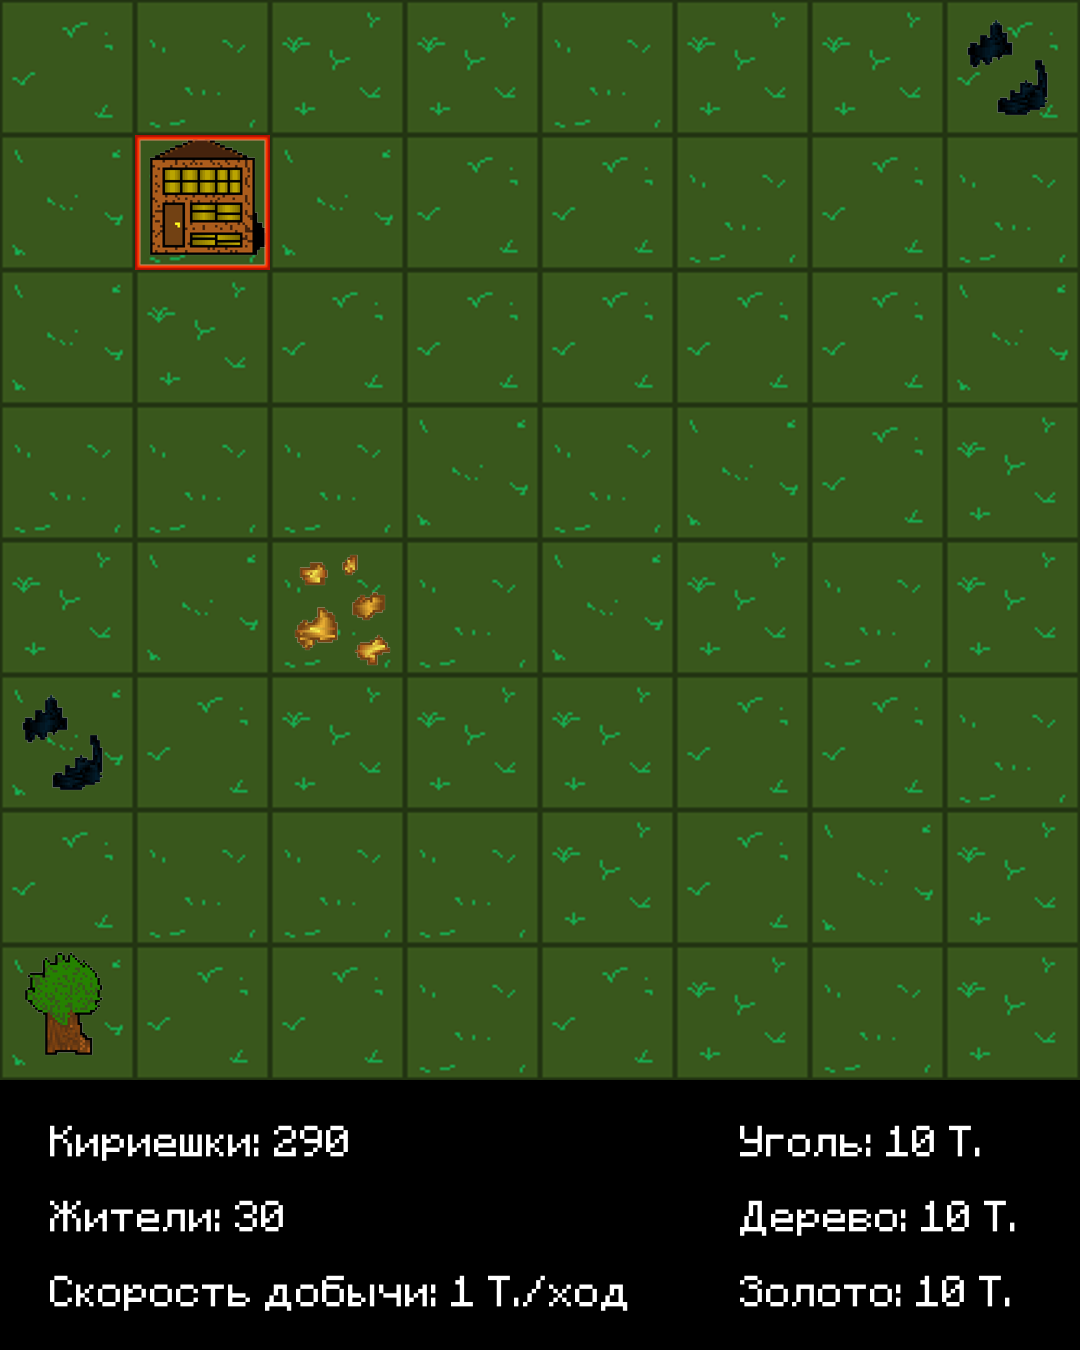
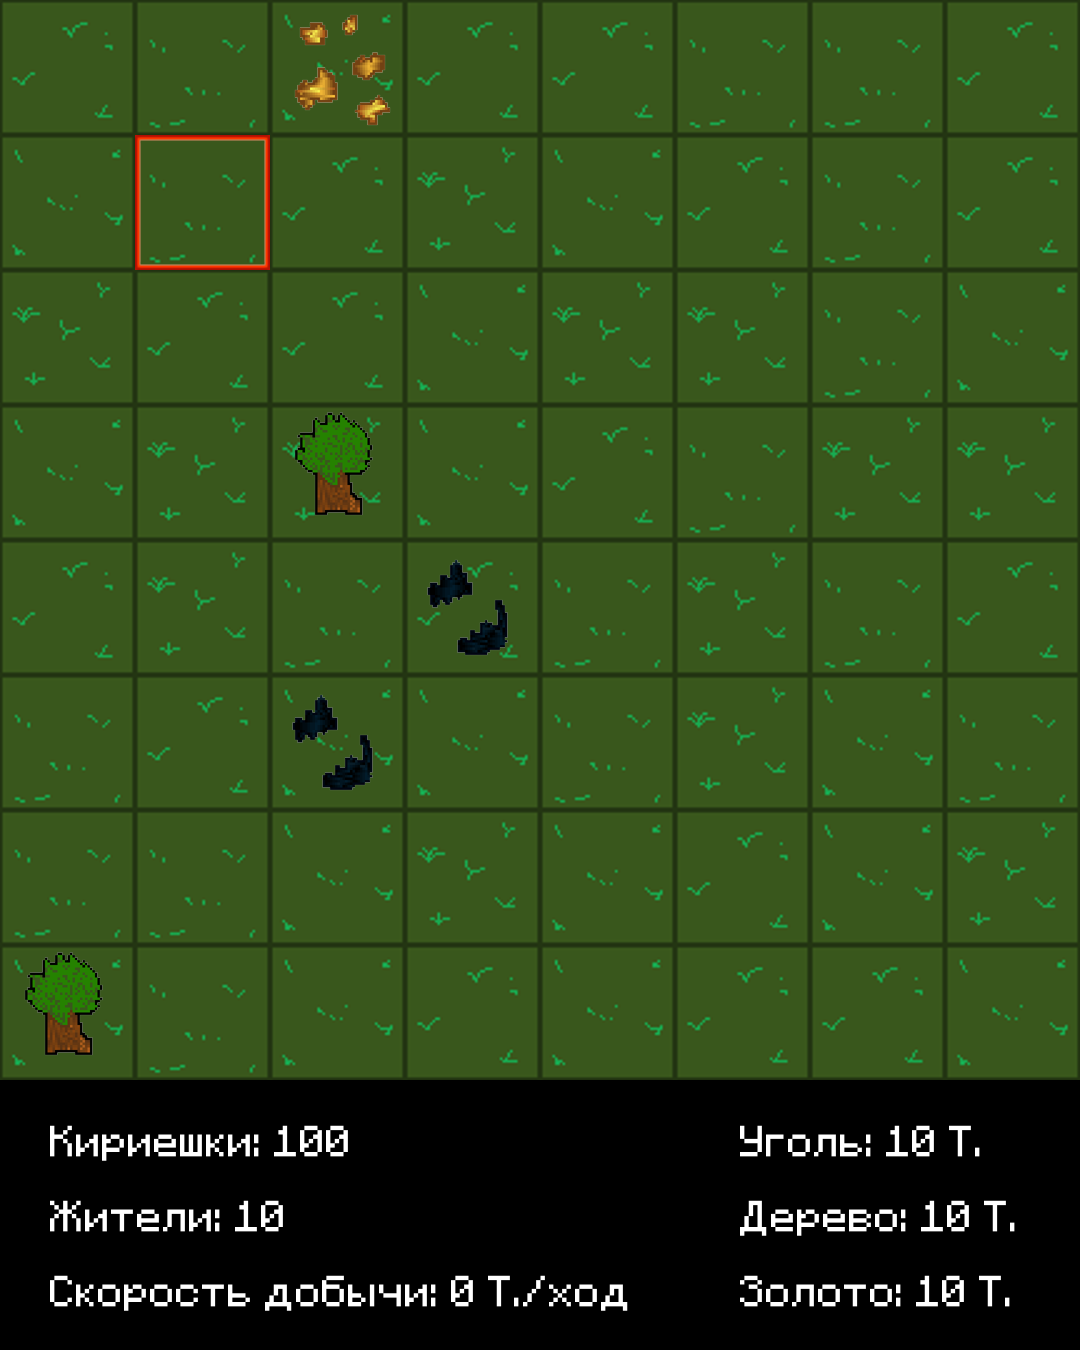
BIG BUG FIX + CHANGE DB

diff --git a/BGEvr/Model/player.py b/BGEvr/Model/player.py
@@ -15,10 +15,10 @@ class Player:
         self.player_pos_y = self.db.select_by_user_id("user_info",self.user_id)[0][1]
         self.player_money = self.db.select_by_user_id("user_info",self.user_id)[0][8]
         self.player_units = self.db.select_by_user_id("user_info",self.user_id)[0][2]
-        self.player_res = self.db.select_by_user_id("user_info",self.user_id)[0][13]
-        self.speed_mining = self.db.select_by_user_id("user_info",self.user_id)[0][17]
+        self.player_res = self.db.select_by_user_id("user_info",self.user_id)[0][11]
+        self.speed_mining = self.db.select_by_user_id("user_info",self.user_id)[0][13]
         self.player_level = 1
-        self.turn_counter = self.db.select_by_user_id("user_info",self.user_id)[0][15]
+        self.turn_counter = self.db.select_by_user_id("user_info",self.user_id)[0][17]
         self.progress = {"x" : self.player_pos_x,"y" : self.player_pos_y}
         t = self.db.select_by_user_id("user_info",self.user_id)[0][3]
         self.pay_for_turn = len(t.split(","))
@@ -29,7 +29,7 @@ class Player:
         return int((self.player_units+4)/14.1014)
 
     def player_move(self,move, user_id):
-        db = Adapter(schema_name="Yellow_Team_Project", host="rc1d-9cjee2y71olglqhg.mdb.yandexcloud.net",
+        db = Adapter(schema_name="Yellow_team", host="85.208.86.99",
                           port="6432", dbname="sch58_db", sslmode=None, user="Admin", password="atdhfkm2024",
                           target_session_attrs="read-write")
         db.connect()
@@ -80,7 +80,7 @@ class Player:
             "middle_bank":[0,0]
         }
 
-        self.db = Adapter(schema_name="Yellow_Team_Project", host="rc1d-9cjee2y71olglqhg.mdb.yandexcloud.net",
+        self.db = Adapter(schema_name="Yellow_team", host="85.208.86.99",
                           port="6432", dbname="sch58_db", sslmode=None, user="Admin", password="atdhfkm2024",
                           target_session_attrs="read-write")
         self.db.connect()
@@ -94,7 +94,7 @@ class Player:
         
         if self.turn_counter % 4 == 3:
             t = self.gr.generate_res_by_turn(self.player_level)
-            q = self.db.select_by_user_id("user_info",user_id)[0][13] + ',' + t
+            q = self.db.select_by_user_id("user_info",user_id)[0][11] + ',' + t
             #self.turn_counter = 0
             req = f"""res_id = '{q}',turn_counter = {self.turn_counter}"""
             #print(t)
@@ -116,7 +116,7 @@ class Player:
         user_houses = list(map(int, user_houses.split(',')))
 
         for i in user_houses:
-            _house = self.db.select_by_house_id(table="houses", house_id=i)[0][0]
+            _house = self.db.select_by_house_id(table="houses", house_id=i)[0][4]
             house = ["small","middle","big"][self.db.select_by_house_id(table="houses", house_id=i)[0][3]-1] +"_"+ _house
             self.player_money += houses_data[house][0]
             self.player_units += houses_data[house][1]

diff --git a/BGEvr/View/render.py b/BGEvr/View/render.py
@@ -32,11 +32,11 @@ class Render:
         font = ImageFont.truetype("res/pixel_font.otf", size=35)
         draw.text((50, 1125), f"Кириешки: {self.user_data[8]}", font=font)
         draw.text((50, 1200), f"Жители: {self.user_data[2]}", font=font)
-        draw.text((50, 1275), f"Скорость добычи: {self.user_data[17]} Т./ход", font=font)
-        draw.text((740, 1125), f"Уголь: {self.user_data[11] } Т.", font=font)
-        draw.text((740, 1200), f"Дерево: {self.user_data[10] } Т.", font=font)
+        draw.text((50, 1275), f"Скорость добычи: {self.user_data[13]} Т./ход", font=font)
+        draw.text((740, 1125), f"Уголь: {self.user_data[15] } Т.", font=font)
+        draw.text((740, 1200), f"Дерево: {self.user_data[14] } Т.", font=font)
         draw.text((740, 1275), f"Золото: {self.user_data[16] } Т.", font=font)
-        if self.db.select_by_user_id("user_info",user_id)[0][14] == 4:
+        if self.db.select_by_user_id("user_info",user_id)[0][12] == 4:
             finally_trahun = Image.open("./res/end_pic.png").resize((self._one_point_size*8, self._one_point_size*8))
             self._map.paste(finally_trahun,(0,0), mask=_selected)
         return self._map
@@ -57,11 +57,10 @@ class Render:
         all_buildings = {"house":['small','middle','big'],"factory":['small','middle','big'],"bank":["small","middle"]}
         for i in all_houses:
             for j in user_houses:
-                if j == i[-1]:
+                if j == i[0]:
                     _pos_x = i[2]
                     _pos_y = i[1]
-                    build_type = i[0]
-                    _build = i[4]
+                    build_type = i[4]
                     build_level = all_buildings[build_type][i[3]-1]
                     _cycle_ground = Image.open(f"./res/{_ground[random.randint(0, 3)]}").convert(mode="RGBA").resize((self._one_point_size, self._one_point_size))
                     _house = Image.open(f"./res/{build_level+'_'+build_type}.png").convert(mode="RGBA").resize((self._one_point_size,self._one_point_size))
@@ -73,7 +72,7 @@ class Render:
     def render_res(self):
         _ground = ['ground1.png', 'ground2.png', 'ground3.png', 'ground4.png']
         print(self.user_data[12])
-        user_res = self.user_data[13]
+        user_res = self.user_data[11]
         user_res = list(map(int,user_res.split(',')))
         all_res = self.db.select("resources")
         for i in all_res:

diff --git a/BGEvr/Controller/gameplay_manager.py b/BGEvr/Controller/gameplay_manager.py
@@ -65,7 +65,7 @@ class Game():
         if _houses_id == 'no_buildings':
             return True
         _houses_id = list(map(int,_houses_id.split(',')))
-        _res_id = list(map(int,self.db.select_by_user_id("user_info",self.user_id)[0][13].split(',')))
+        _res_id = list(map(int,self.db.select_by_user_id("user_info",self.user_id)[0][11].split(',')))
         player_pos_x = self.db.select_by_user_id("user_info",self.user_id)[0][0]
         player_pos_y = self.db.select_by_user_id("user_info",self.user_id)[0][1]
         houses_data = self.db.select("houses")
@@ -163,11 +163,11 @@ class Game():
 
 
     def mine_resources(self):
-        _res_id = list(map(int,self.db.select_by_user_id("user_info",self.user_id)[0][13].split(',')))
-        _mine_speed = self.db.select_by_user_id("user_info",self.user_id)[0][17]
-        _coal = self.db.select_by_user_id("user_info",self.user_id)[0][11]
+        _res_id = list(map(int,self.db.select_by_user_id("user_info",self.user_id)[0][11].split(',')))
+        _mine_speed = self.db.select_by_user_id("user_info",self.user_id)[0][13]
+        _coal = self.db.select_by_user_id("user_info",self.user_id)[0][14]
         _gold = self.db.select_by_user_id("user_info",self.user_id)[0][16]
-        _tree = self.db.select_by_user_id("user_info",self.user_id)[0][10]
+        _tree = self.db.select_by_user_id("user_info",self.user_id)[0][15]
         for i in _res_id:
             try:
                 t = list(self.db.select_by_res_id("resources",i)[0])

diff --git a/BGEvr/botik.py b/BGEvr/botik.py
@@ -25,7 +25,7 @@ class RunGameBot:
         self.progress = None
         self.game_data = None
         self.data_loader = None
-        self.db = Adapter(schema_name="Yellow_Team_Project",host="rc1d-9cjee2y71olglqhg.mdb.yandexcloud.net",port="6432",dbname="sch58_db",sslmode=None,user="Admin",password="atdhfkm2024",target_session_attrs="read-write")
+        self.db = Adapter(schema_name="Yellow_team",host="85.208.86.99",port="6432",dbname="sch58_db",sslmode=None,user="Admin",password="atdhfkm2024",target_session_attrs="read-write")
         self.db.connect()
         self.render = Render
         self.used_keyboard = []
@@ -96,7 +96,7 @@ class RunGameBot:
         if query.data == 'settings':
             self.used_keyboard = self.setting_keyboard
         if query.data == 'new_game':
-            t = self.db.select_by_user_id("user_info",self.user.id)[0][12]
+            t = self.db.select_by_user_id("user_info",self.user.id)[0][10]
             self.db.delete_by_user_id("user_info",self.user.id)
             user_res = self.generator_res.generate_res()
             self.db.insert_batch("user_info",[{"pos_x" : 1,"pos_y" : 1, "units" : 10, "house_id" : 'no_buildings', "chat_id" : self.user.id,"user_id" : self.user.id,"created" : int(datetime.now().timestamp()), "updated" : int(datetime.now().timestamp()),"money" : 100,"user_nickname" : self.user.full_name,"last_img_id": t,"res_id" : user_res,"player_level" : 1,"mining_speed":0}],id_name='user_id')

diff --git a/BGEvr/View/ViewTG.py b/BGEvr/View/ViewTG.py
@@ -14,11 +14,11 @@ class ViewTG():
     def send_pic(self,update:Update,callback:CallbackContext, user_id, message_id=None, db=None):
         bot = Bot(self.bot_id)
         self.user_id = user_id
-        self.db = Adapter(schema_name="Yellow_Team_Project", host="rc1d-9cjee2y71olglqhg.mdb.yandexcloud.net",
+        self.db = Adapter(schema_name="Yellow_team", host="85.208.86.99",
                           port="6432", dbname="sch58_db", sslmode=None, user="Admin", password="atdhfkm2024",
                           target_session_attrs="read-write")
         self.db.connect()
-        self.last_img_id = self.db.select_by_user_id("user_info", user_id)[0][12]
+        self.last_img_id = self.db.select_by_user_id("user_info", user_id)[0][10]
         try:
             if self._first_pic and message_id==None:
                 self.message = bot.send_photo(self.user_id,photo=open(f'players_images/{self.user_id}.png','rb'))

diff --git a/BGEvr/database_adapter.py b/BGEvr/database_adapter.py
@@ -119,7 +119,7 @@ class Adapter():
 
 
 #db.insert_batch("houses",data = {...})
-"""db = Adapter(schema_name="Yellow_Team_Project",host="rc1d-9cjee2y71olglqhg.mdb.yandexcloud.net",port="6432",dbname="sch58_db",sslmode=None,user="Admin",password="atdhfkm2024",target_session_attrs="read-write")
+"""db = Adapter(schema_name="Yellow_team",host="85.208.86.99",port="6432",dbname="sch58_db",sslmode=None,user="Admin",password="atdhfkm2024",target_session_attrs="read-write")
 db.connect()
 db.delete_all("user_info")
 db.delete_all("resources")

diff --git a/BGEvr/run_bot.py b/BGEvr/run_bot.py
@@ -14,4 +14,8 @@ def main():
 
 
 if __name__ == '__main__':
-    main()
+    while 1:
+        try:
+            main()
+        except:
+            print("No using - restart!")
